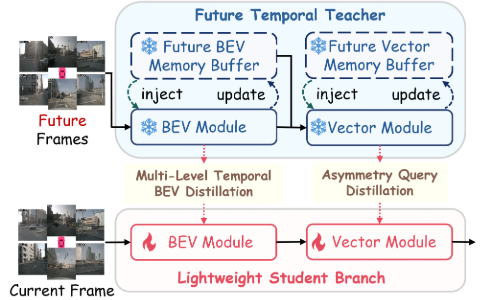
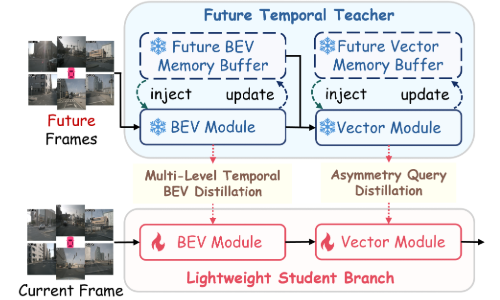
fix: remove all conflicting paper-box/badge styles from main.scss, re-process images

diff --git a/assets/css/main.scss b/assets/css/main.scss
@@ -40,56 +40,7 @@
 @import "vendor/magnific-popup/magnific-popup";
 @import "print";
 
-.paper-box {
-    display: flex;
-    justify-content: left;
-    align-items: center;
-    flex-direction: row;
-    flex-wrap: wrap;
-    border-bottom: none;
-    padding: 0;
-    margin: 0;
-
-    .paper-box-image{
-        justify-content: center;
-        display: flex;
-        width: 100%;
-        order: 2;
-        img {
-            max-width: 400px;
-            box-shadow: 0 2px 8px rgba(1, 47, 99, 0.1);
-            object-fit: cover;
-            border-radius: 6px;
-            transition: all 0.3s ease;
-        }
-        
-        img:hover {
-            transform: none;
-            box-shadow: 0 4px 12px rgba(1, 47, 99, 0.12);
-        }
-    }
-    
-    .paper-box-text{
-        max-width: 100%;
-        order: 1;
-    }
-    
-    @include breakpoint($medium) {
-        .paper-box-image{
-            justify-content: left;
-            min-width: 200px;
-            max-width: 40%;
-            order: 1;
-        }
-        
-        .paper-box-text{
-            justify-content: left;
-            padding-left: 2em;
-            max-width: 60%;
-            order: 2;
-        }
-    }
-}
+/* paper-box 和 badge 样式由 accent-enhancements.css 控制 */
 
 $scroll_offset : 2em;
 h1:before, .anchor:before { 
@@ -99,18 +50,4 @@ h1:before, .anchor:before {
     width: 0; 
     height: $scroll_offset; 
     margin-top: -$scroll_offset;
-}
-
-.badge {
-    padding-left: 0.8rem;
-    padding-right: 0.8rem;
-    position: absolute;
-    margin-top: .5em;
-    margin-left: -.5em;
-    color: white;
-    background: linear-gradient(135deg, #FE667B 0%, #ff8599 100%);
-    font-size: .8em;
-    border-radius: 15px;
-    font-weight: 600;
-    box-shadow: 0 2px 8px rgba(254, 102, 123, 0.2);
 }
